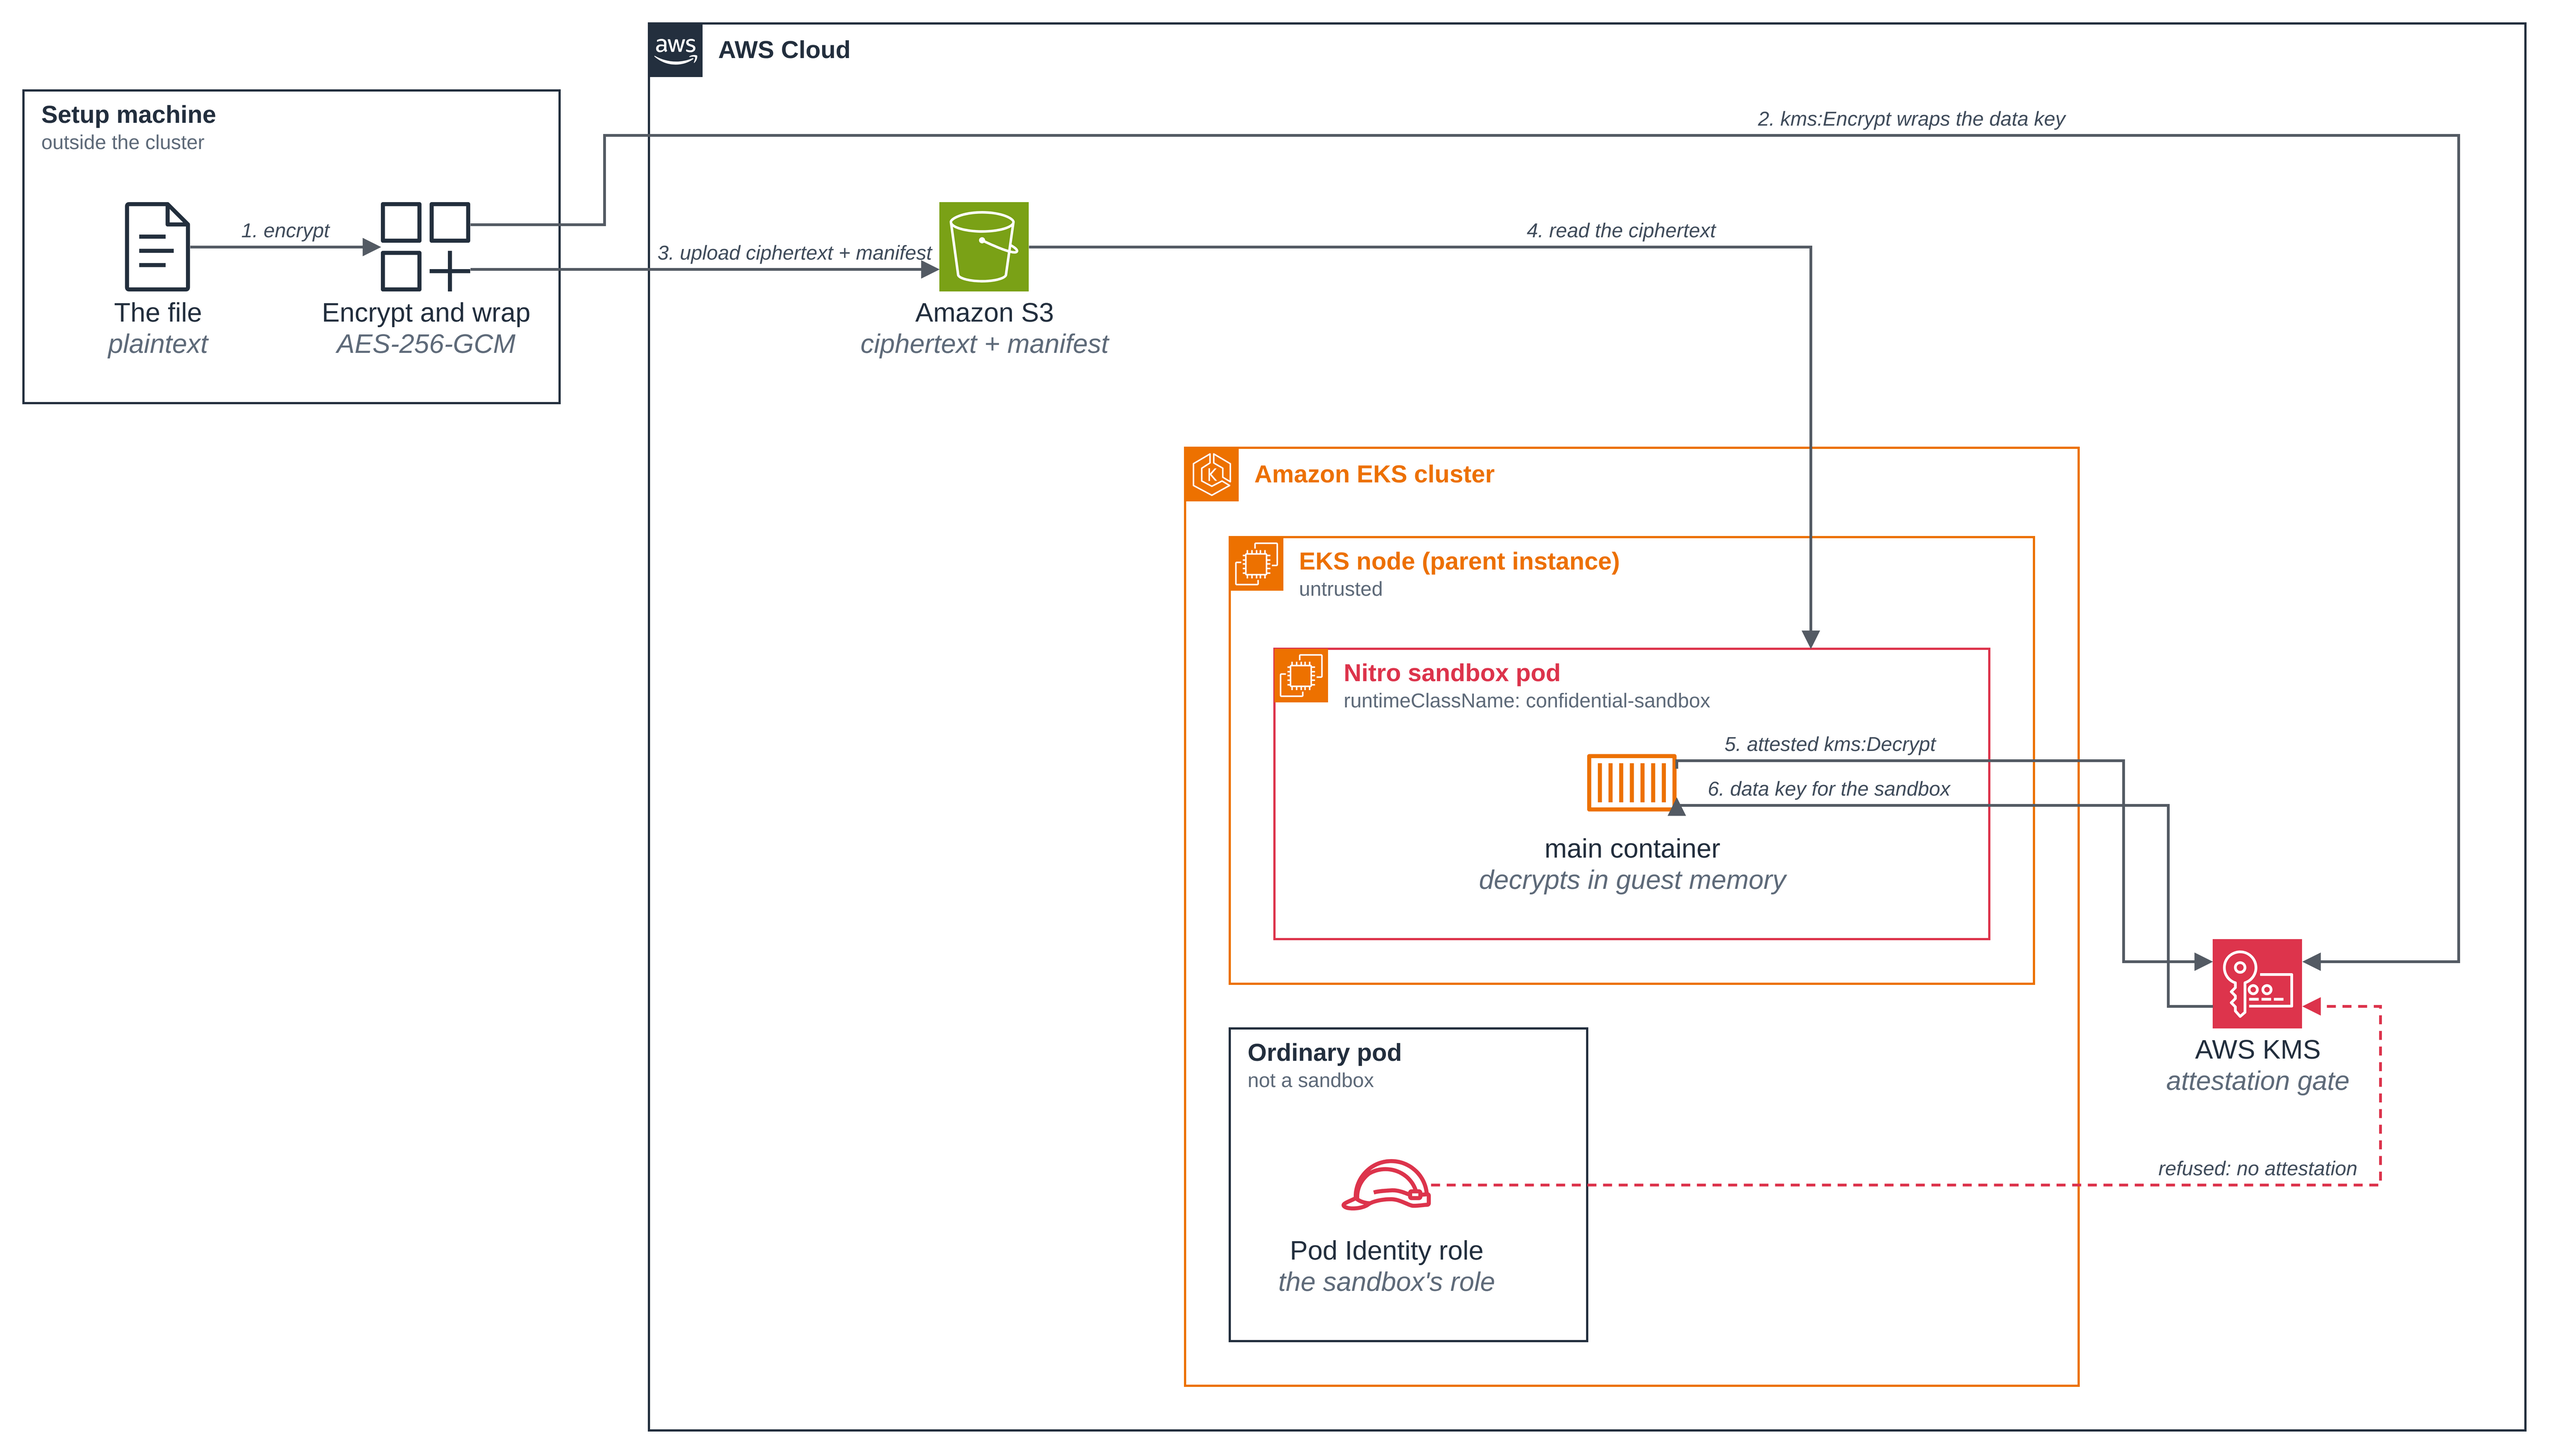
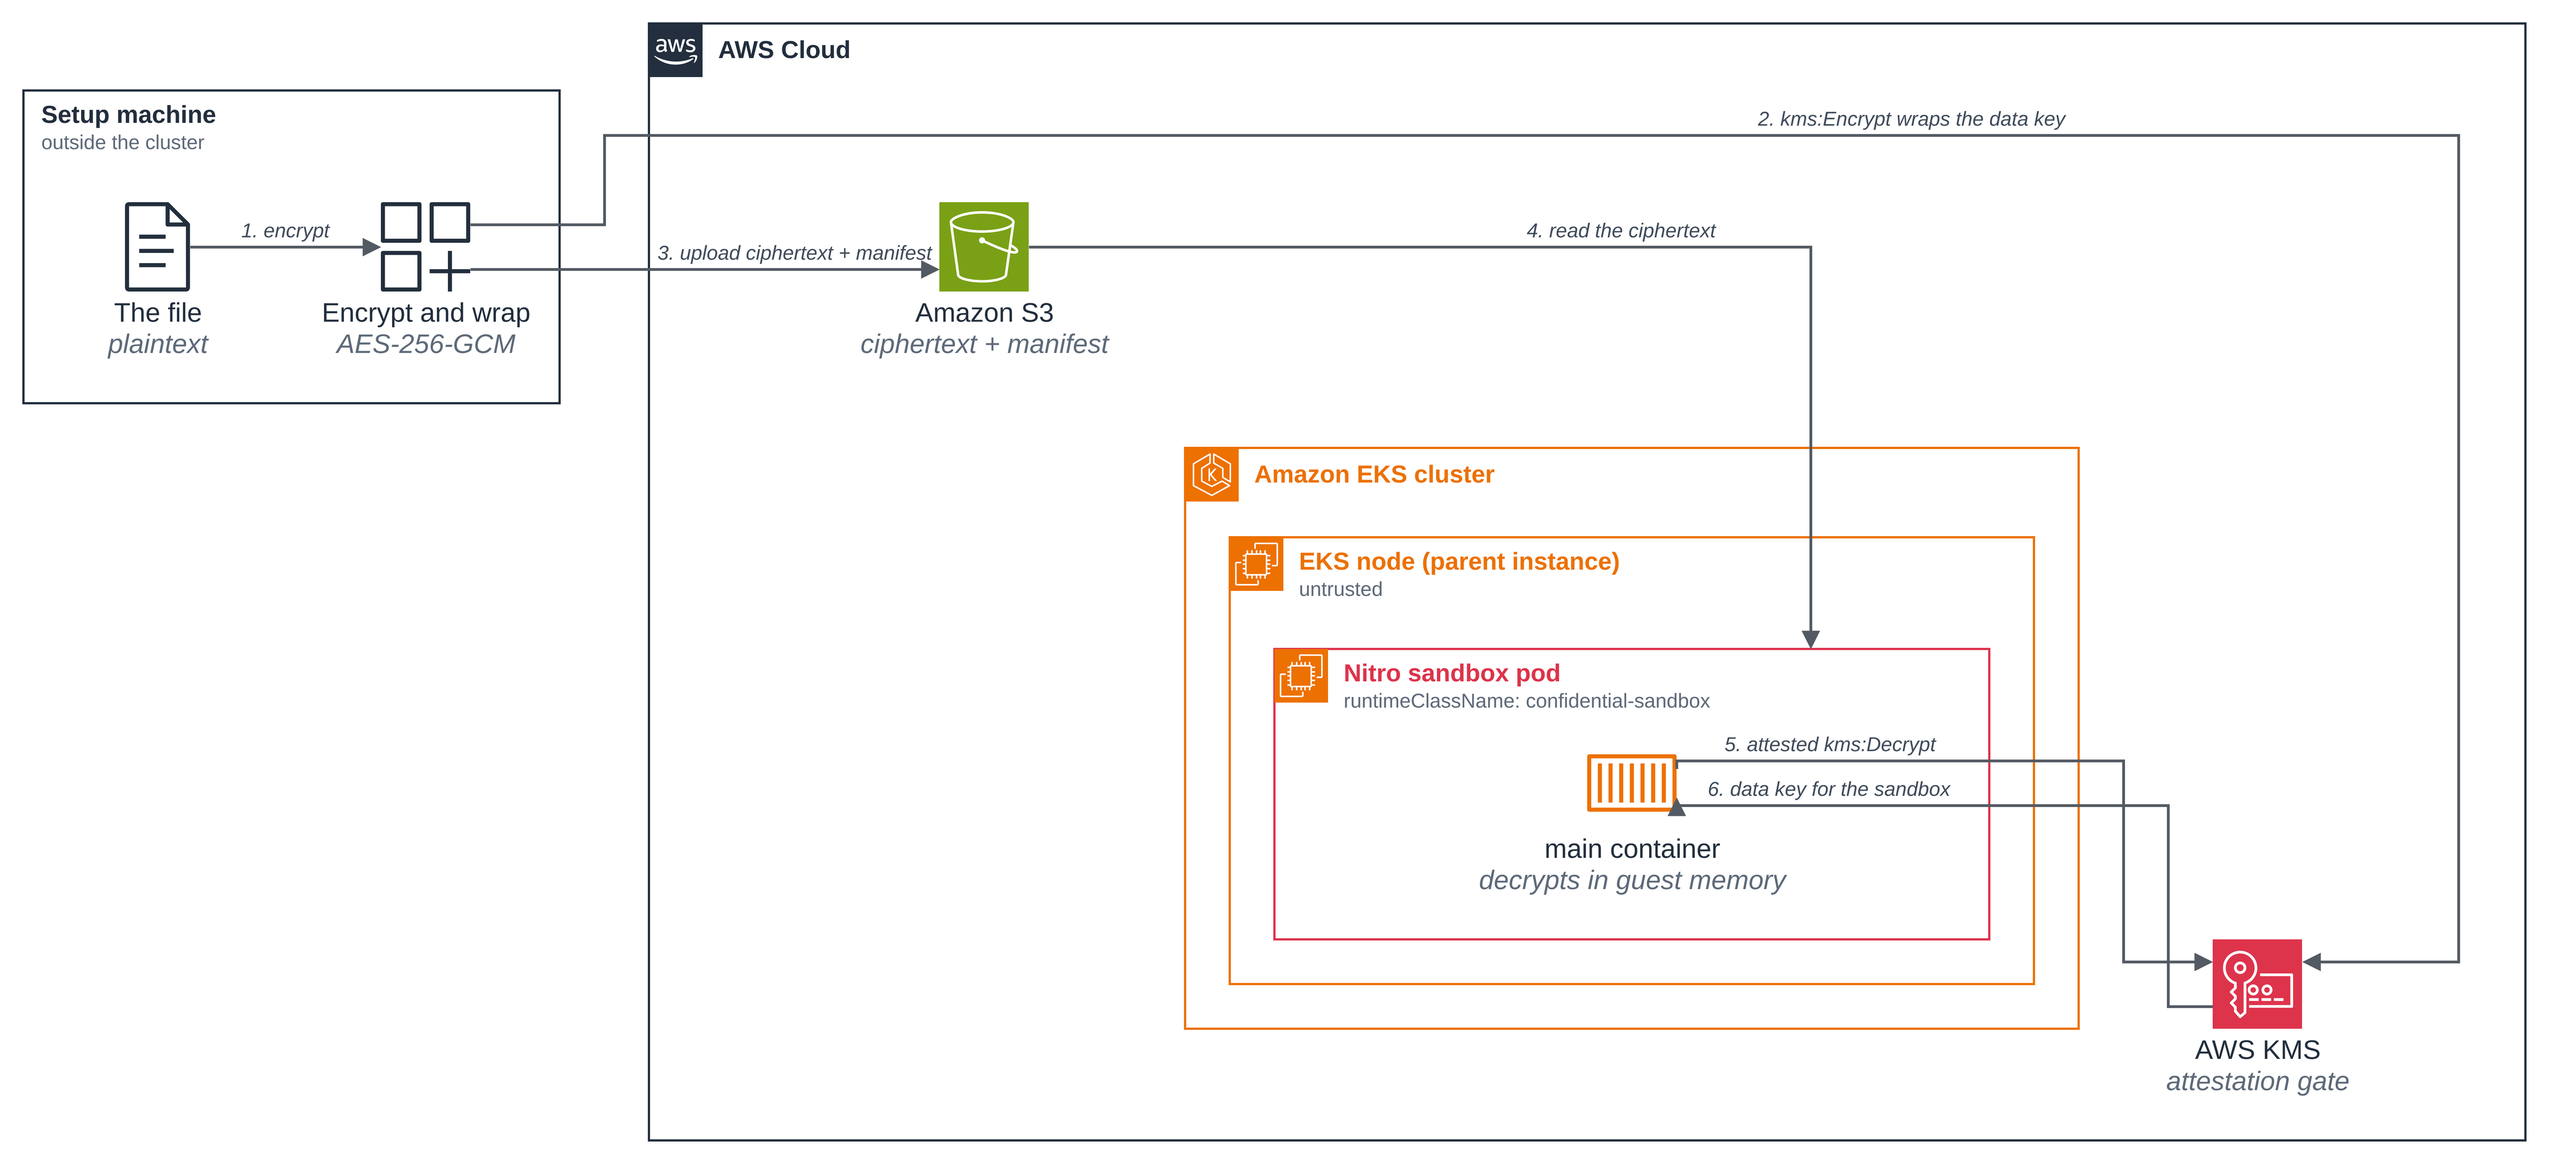
s3-encrypted-file: split the overview figure, which was carrying two ideas
Judged against the aws-diagrams rule of one idea per figure, and the
answer was that the single figure carried two. The evidence: its alt text
was one 250-word block, it had six icons, four nested frames and seven
labelled flows, and the refused control pod's dashed line crossed the
whole canvas to reach a KMS icon that four other flows already converged
on, while the lower-left quarter was empty.

The two ideas were the envelope, which is why the sample wraps a small
data key rather than handing the file to KMS, and the gate, which is who
KMS will release that key to. The second is the sample's central security
claim and it is a comparison, so burying it in the corner of an overview
was the worst place for it.

Figure 1 is now the file's journey alone: the ordinary pod, its role icon
and the refused edge are gone, and both frames shrink to what is left.
Five icons, six flows, no empty quarter.

Figure 2 is new and focused: the two pods side by side, each labelled
with the same Pod Identity role, one presenting an attestation and one
presenting none, the released and refused answers from KMS, and the key
policy's rule as a note under the key. Four icons. The refusal drawn is
the KMS denial, which the key policy enforces and the page shows in two
output blocks; no network boundary and no refused route, because this
sample ships no network policy and nothing in it limits the pod's reach.

Figure 1's control render was byte-identical before the edit and its
[…]

diff --git a/examples/confidential/s3-encrypted-file/README.md b/examples/confidential/s3-encrypted-file/README.md
@@ -83,12 +83,11 @@ data key without an attestation.
   it against the length and SHA-256 its policy pins, and prints only a marker with those two
   values. Nothing on this page, and nothing in any log, is the file.
 
-*Figure 1: An encrypted file from the setup machine to the sandbox, and the attestation gate
-in the middle. Only ciphertext reaches Amazon S3, and what unlocks it inside the sandbox is
-the attestation, not the credentials: an ordinary pod holding the very same Pod Identity role
-is refused.*
+*Figure 1: The file's journey, from the setup machine to the sandbox that reads it back. Only
+ciphertext and a wrapped key reach Amazon S3; KMS only ever handles the small data key, which
+is what lets the file be any size. Who KMS will release that key to is Figure 2.*
 
-![A setup machine outside the cluster holds the file as plaintext and an encrypt and wrap step using AES-256-GCM. Three flows leave the setup machine: step 1 encrypt, from the file to the encrypt and wrap step; step 2, kms:Encrypt wraps the data key, running along the top of the AWS Cloud frame to AWS KMS on the far right; and step 3, upload ciphertext and manifest, to Amazon S3, which holds the ciphertext and the manifest. Inside the AWS Cloud frame, an Amazon EKS cluster frame contains an EKS node frame labelled parent instance, untrusted, and inside that a Nitro sandbox pod frame with runtimeClassName confidential-sandbox, holding a main container that decrypts in guest memory. Step 4, read the ciphertext, runs from Amazon S3 down into the Nitro sandbox pod frame, so the guest reads the object itself rather than the node reading it. The main container exchanges two flows with AWS KMS, outside the cluster to the right: step 5, an attested kms:Decrypt, and step 6, the data key returned for the sandbox. Lower in the same EKS cluster sits an ordinary pod, not a sandbox, holding the sandbox's own Pod Identity role. Its request to AWS KMS is drawn as a red dashed line labelled refused, no attestation, so the same credentials without an attestation document get nothing.](images/figure-1-s3-encrypted-file.png)
+![A setup machine outside the cluster holds the file as plaintext and an encrypt and wrap step using AES-256-GCM. Three flows leave the setup machine: step 1 encrypt, from the file to the encrypt and wrap step; step 2, kms:Encrypt wraps the data key, running along the top of the AWS Cloud frame to AWS KMS on the far right, labelled the attestation gate; and step 3, upload ciphertext and manifest, to Amazon S3, which holds the ciphertext and the manifest. Inside the AWS Cloud frame, an Amazon EKS cluster frame contains an EKS node frame labelled parent instance, untrusted, and inside that a Nitro sandbox pod frame with runtimeClassName confidential-sandbox, holding a main container that decrypts in guest memory. Step 4, read the ciphertext, runs from Amazon S3 down into the Nitro sandbox pod frame, so the guest reads the object itself rather than the node reading it. The main container exchanges two flows with AWS KMS, outside the cluster to the right: step 5, an attested kms:Decrypt, and step 6, the data key returned for the sandbox](images/figure-1-s3-encrypted-file.png)
 
 **The sandbox's network reach.** This sample ships no network policy, so the pod's egress is
 unrestricted. What the key policy and the bucket policy limit is access to this data key and
@@ -405,6 +404,12 @@ data key. The only thing it does not have is an attestation document. In confide
 this stands for the node itself as much as for an operator: the parent instance can obtain
 the same Pod Identity credentials the workload uses (Amazon EKS User Guide, *Security model
 and parent instance trust assumptions*).
+
+*Figure 2: What AWS KMS will release the data key to. Both pods hold the same Pod Identity
+role and ask for the same thing; only the one that can present an attestation the key policy
+accepts gets an answer. The credential is not the boundary.*
+
+![A focused view of the attestation gate. Inside an AWS Cloud frame, an Amazon EKS cluster frame holds two pods, one above the other. The upper one is a Nitro sandbox pod frame, labelled confidential-sandbox, same Pod Identity role, holding a main container that presents an attestation. The lower one is an Ordinary pod frame, labelled not a sandbox, same Pod Identity role, holding a main container that presents none. To the right, outside the cluster, is AWS KMS, which holds the data key. Two solid arrows connect the sandbox pod's container and AWS KMS: an attested kms:Decrypt going out, and the data key released coming back. From the ordinary pod's container a single red dashed arrow runs to AWS KMS labelled refused, no attestation. Below AWS KMS a red dotted note headed key policy reads: allow kms:Decrypt only on a matching attestation, and explicitly deny otherwise.](images/figure-2-attestation-gate.png)
 
 ```bash
 kubectl -n s3-encrypted-file-sample logs s3-encrypted-file-credentials -c main
